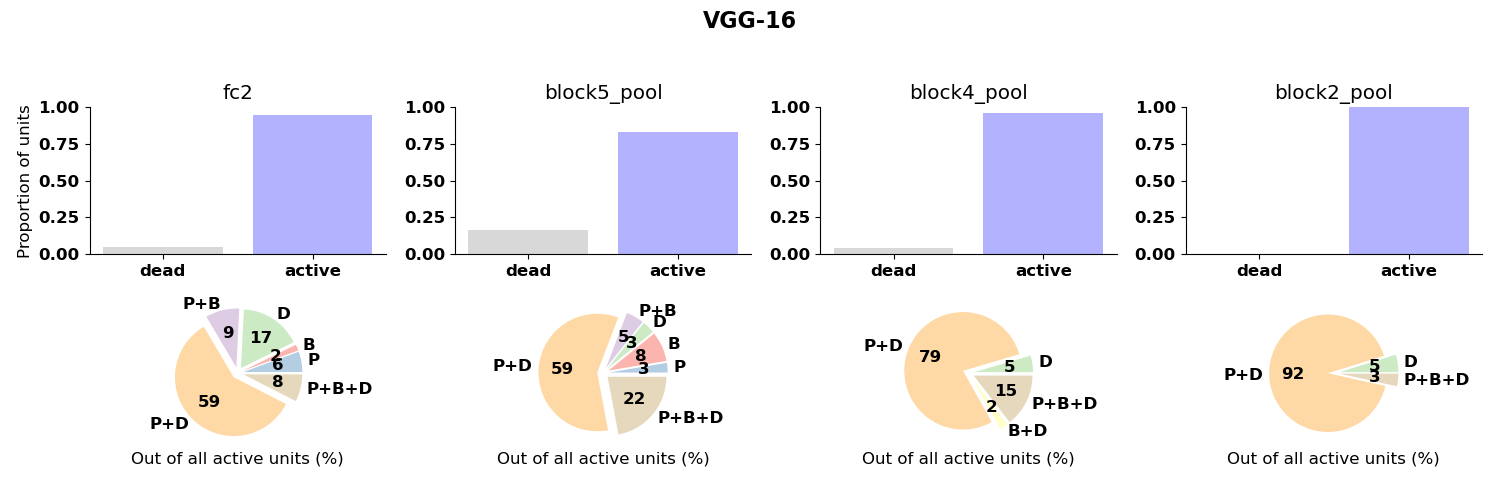
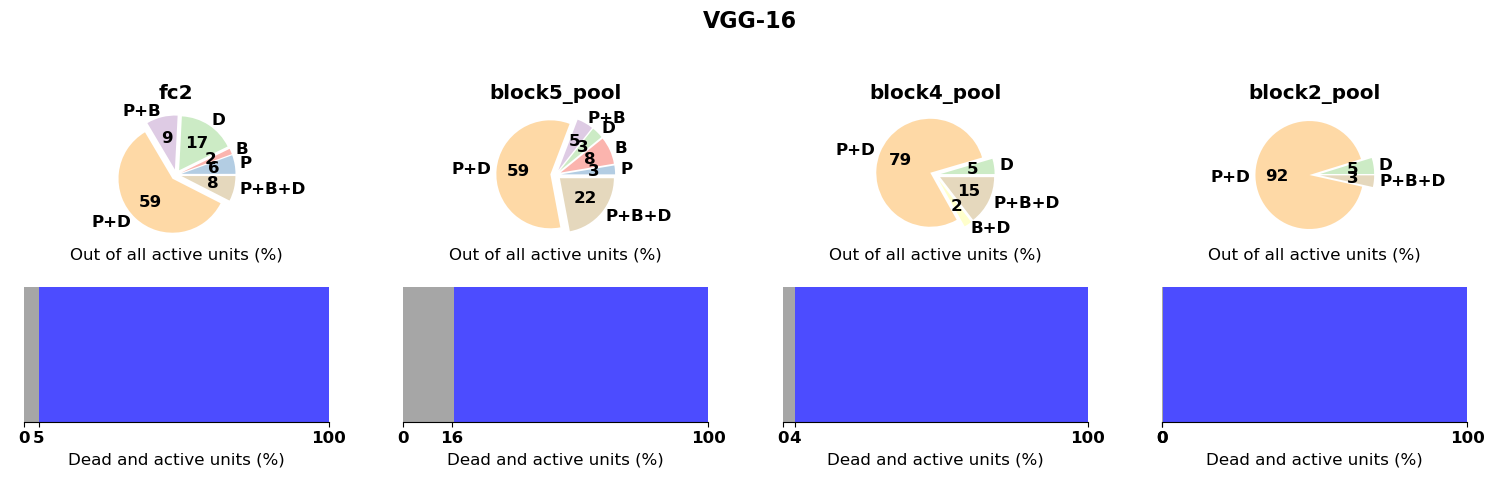
improve plotter

diff --git a/figures_paper.py b/figures_paper.py
@@ -1599,6 +1599,7 @@ def unit_visualization_by_type():
       
 
 def unit_chart_visualization_piechart():
+    import matplotlib.patches as patches
     experiment = 'unit_chart'
     moving_trajectory = 'uniform'
     envs = ['env28_r24']
@@ -1609,8 +1610,8 @@ def unit_chart_visualization_piechart():
         output_layers = data.load_model_layers(model_name)
 
         # each column is a layer
-        # row1 is dead v active units barplot
-        # row2 is all types piechart
+        # row1 is all types piechart
+        # row2 is dead v active units barplot
         fig, ax = plt.subplots(
                 nrows=2,
                 ncols=len(output_layers),
@@ -1699,20 +1700,8 @@ def unit_chart_visualization_piechart():
             exclusive_direction_cells_indices = \
                 list(set(direction_cell_indices) - (set(place_and_direction_cells_indices) | set(border_and_direction_cells_indices)))
 
-            # first subplot: barchart of dead and active units
-            ax[0, col_index].bar(
-                ['dead', 'active'],
-                [n_dead_units/unit_chart_info.shape[0], 
-                n_active_units/unit_chart_info.shape[0]],
-                color=['grey', 'blue'],
-                alpha=0.3,
-            )
-            ax[0, 0].set_ylabel('Proportion of units')
-            ax[0, col_index].set_ylim([0, 1])
-            ax[0, col_index].spines.right.set_visible(False)
-            ax[0, col_index].spines.top.set_visible(False)
 
-            # second subplot: piechart of different cell proportions
+            # first subplot: piechart of different cell proportions
             n_exc_place_cells = len(exclusive_place_cells_indices)
             n_exc_border_cells = len(exclusive_border_cells_indices)
             n_exc_direction_cells = len(exclusive_direction_cells_indices)
@@ -1782,7 +1771,7 @@ def unit_chart_visualization_piechart():
                 elif label == 'P+B+D':
                     colors.append(plt.cm.Pastel1.colors[6])
 
-            ax[1, col_index].pie(
+            ax[0, col_index].pie(
                 n_cells,
                 autopct=lambda p: '{:.0f}'.format(round(p)) if p >= 1 else '',
                 labels=labels,
@@ -1790,12 +1779,41 @@ def unit_chart_visualization_piechart():
                 explode=[0.1]*len(labels),
             )
 
-            ax[1, col_index].set_xlabel('Out of all active units (%)')
-            ax[0, col_index].set_title(output_layer)
+            ax[0, col_index].set_xlabel('Out of all active units (%)')
+            ax[0, col_index].set_title(output_layer, fontweight='bold')
             plt.tight_layout(rect=[0, 0.03, 1, 0.95])
             if model_name == 'vgg16': model_name_plot = 'VGG-16'
             elif model_name == 'resnet50': model_name_plot = 'ResNet-50'
             elif model_name == 'vit_b16': model_name_plot = 'ViT-B/16'
+
+
+            # second subplot: show proportion of dead and active units
+            # x-axis is 0 to 1, showing how much is dead and how much is active
+            # y-axis can be arbitrary height, we set to 2.
+            box_height = 2
+            width1 = n_dead_units/unit_chart_info.shape[0]*100
+            width2 = n_active_units/unit_chart_info.shape[0]*100
+
+            # Set the x-axis limit to 0-100%
+            ax[1, col_index].set_xlim(0, 100)
+            ax[1, col_index].set_yticks([])
+            
+            # Create rectangles for the partitions
+            rect1 = patches.Rectangle((0, 0), width1, box_height, linewidth=1, edgecolor='none', facecolor='grey', alpha=0.7)
+            rect2 = patches.Rectangle((width1, 0), width2, box_height, linewidth=1, edgecolor='none', facecolor='blue', alpha=0.7)
+
+            ax[1, col_index].add_patch(rect1)
+            ax[1, col_index].add_patch(rect2)
+            ax[1, col_index].set_xlabel('Dead and active units (%)')
+
+            # set x-axis ticks only (0, width1, 100), round to 0 decimal places
+            ax[1, col_index].set_xticks([0, int(width1), 100], minor=False)
+
+            # remove left, top and right
+            ax[1, col_index].spines['left'].set_visible(False)
+            ax[1, col_index].spines['top'].set_visible(False)
+            ax[1, col_index].spines['right'].set_visible(False)
+
             plt.suptitle(f'{model_name_plot}', fontsize=16, fontweight='bold')
             plt.savefig(f'figs/paper/unit_chart_overlaps_{model_name}.png')
 
@@ -1807,5 +1825,5 @@ if __name__ == '__main__':
     # lesion_by_coef_each_model_across_layers_and_lr()
     # lesion_by_unit_chart_each_model_across_layers_and_lr()
     # unit_chart_type_against_coef_each_model_across_layers()
-    unit_visualization_by_type()
-    # unit_chart_visualization_piechart()
+    # unit_visualization_by_type()
+    unit_chart_visualization_piechart()
